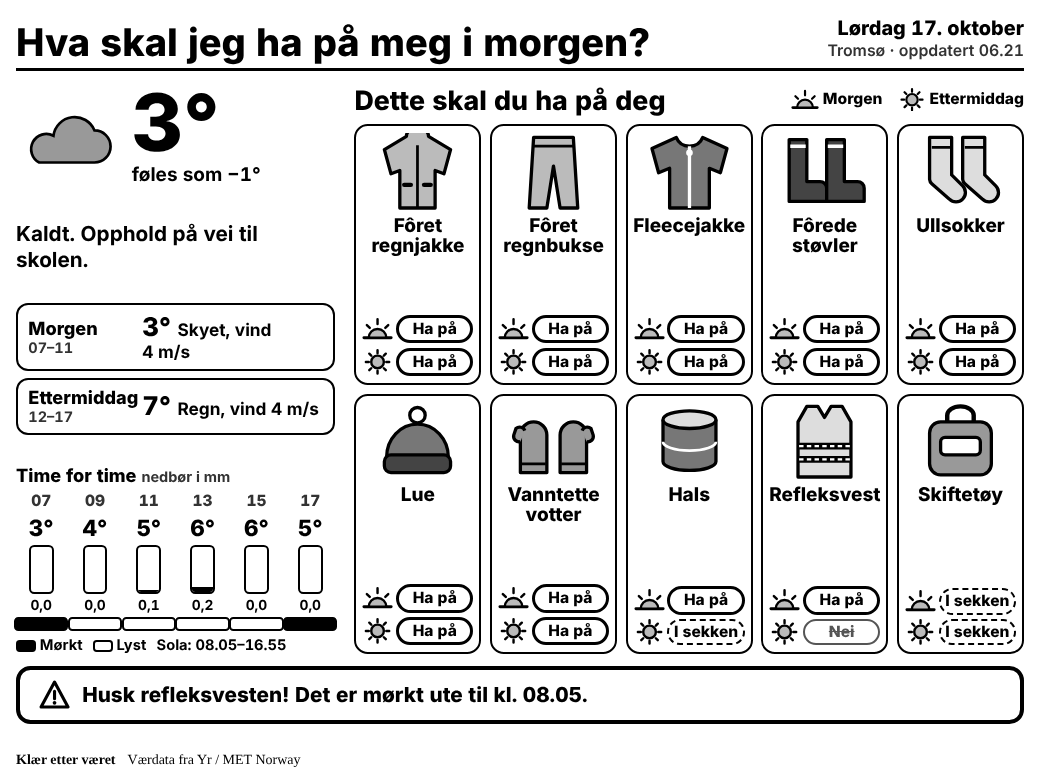
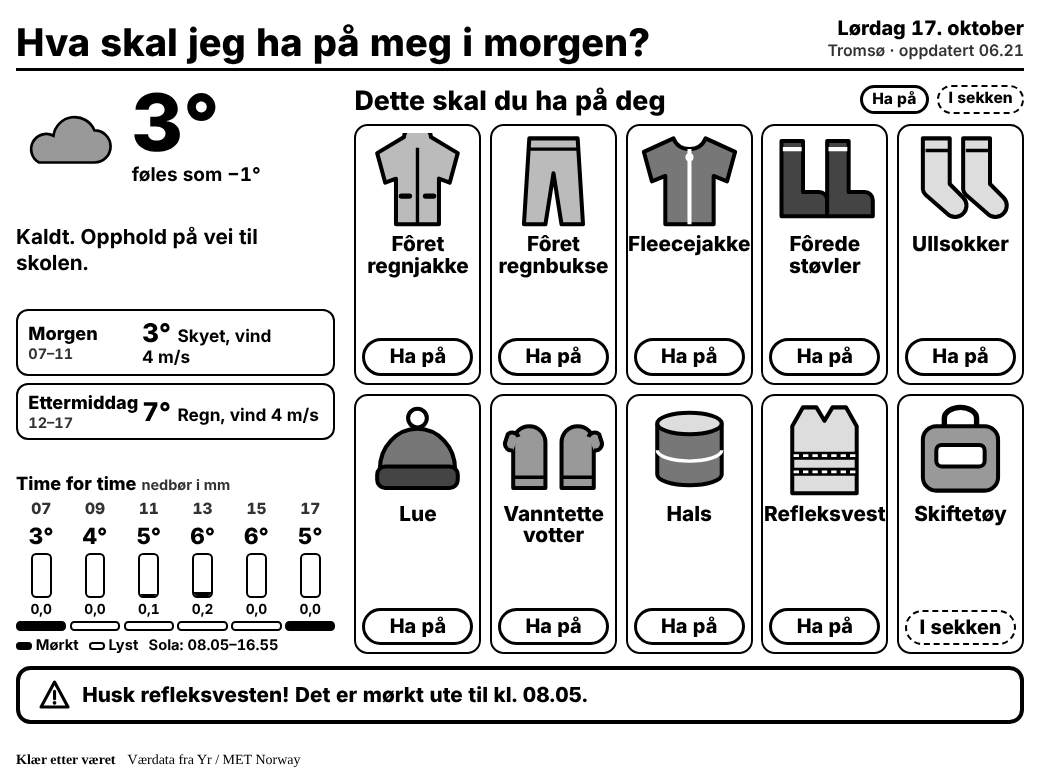
Show one label per garment instead of morning and afternoon rows
Kids get dressed once, so each card now says either "Ha på" (needed on
the way to school) or "I sekken" (only needed later, or optional).
Things to wear are listed first. The afternoon weather stays in the
left column.

Claude-Session: https://claude.ai/code/session_01MfSNdDLEZkeMd6mijxF2wM

diff --git a/src/transform.js b/src/transform.js
@@ -10,7 +10,7 @@ const PERIODS = {
 };
 const STRIP_HOURS = [7, 9, 11, 13, 15, 17];
 const SWITCH_TO_TOMORROW_AT = 17; // after this local hour, show tomorrow
-const STATUS_LABEL = { on: 'Ha på', bag: 'I sekken', no: 'Nei' };
+const STATUS_LABEL = { on: 'Ha på', bag: 'I sekken' };
 const MAX_ITEMS = 10;
 
 // ---------- input helpers ----------
@@ -235,6 +235,15 @@ function outfit(s) {
 const STRONGER = { no: 0, bag: 1, on: 2 };
 const stronger = (x, y) => (STRONGER[x] >= STRONGER[y] ? x : y);
 
+// One label per garment, because kids get dressed once, in the morning:
+// "Ha på" if it is needed on the way to school, "I sekken" if it is only
+// needed later in the day or is optional.
+function dayStatus(m, a) {
+  if (m === 'on') return 'on';
+  if (m === 'bag' || a !== 'no') return 'bag';
+  return 'no';
+}
+
 function mergeOutfits(morning, afternoon) {
   // Items sharing an icon are variants of one garment (e.g. boots). The warmest
   // variant needed in either period is shown, so a kid never sees two pairs of boots.
@@ -247,13 +256,16 @@ function mergeOutfits(morning, afternoon) {
     if (seen) { seen.m = stronger(seen.m, m); seen.a = stronger(seen.a, a); }
     else byIcon.set(icon, { key, name, icon, m, a });
   }
-  const items = [...byIcon.values()].map(it => ({ ...it, m_label: STATUS_LABEL[it.m], a_label: STATUS_LABEL[it.a] }));
+  const items = [...byIcon.values()]
+    .map(({ key, name, icon, m, a }) => {
+      const status = dayStatus(m, a);
+      return { key, name, icon, status, label: STATUS_LABEL[status] };
+    })
+    .filter(it => it.status !== 'no');
+  // Things to put on first, then things to pack; the sort is stable, so catalogue order holds within each group.
+  items.sort((x, y) => STRONGER[y.status] - STRONGER[x.status]);
   // Keep the most important ones if there are too many for the grid.
-  while (items.length > MAX_ITEMS) {
-    const idx = items.map((it, i) => [it, i]).reverse()
-      .find(([it]) => it.m !== 'on' && it.a !== 'on');
-    items.splice(idx ? idx[1] : items.length - 1, 1);
-  }
+  while (items.length > MAX_ITEMS) items.pop();
   return items;
 }
 

diff --git a/test/transform.test.js b/test/transform.test.js
@@ -24,6 +24,14 @@ test('after 17:00 the board shows tomorrow', () => {
   assert.equal(r.date, 'Lørdag 17. oktober');
 });
 
+test('each garment has one label: wear it now or pack it', () => {
+  const r = build(fixture, new Date('2026-10-16T04:30:00Z'));
+  for (const it of r.items) assert.ok(['on', 'bag'].includes(it.status));
+  const firstBag = r.items.findIndex(it => it.status === 'bag');
+  assert.ok(r.items.slice(firstBag).every(it => it.status === 'bag'), 'things to wear come first');
+  assert.equal(r.items.find(it => it.key === 'skiftetoy').label, 'I sekken');
+});
+
 test('one variant per garment, so never two kinds of mittens', () => {
   const r = build(fixture, new Date('2026-10-16T16:30:00Z'));
   const icons = r.items.map(i => i.icon);

diff --git a/README.md b/README.md
@@ -12,8 +12,8 @@ scales down to the original TRMNL and to mashup slots.
 - The weather on the way to school (07–11) and in the afternoon (12–17), with wind chill
   ("føles som").
 - Hour by hour temperature and precipitation, and whether it is dark or light outside.
-- An outfit grid where each garment says **Ha på** (wear it), **I sekken** (pack it) or
-  **Nei** (not needed), next to a sunrise for the morning and a high sun for the afternoon for the morning and the afternoon.
+- An outfit grid with one label per garment: **Ha på** (wear it on the way to school) or
+  **I sekken** (pack it, because it is only needed later in the day or is optional).
 - A reminder at the bottom, such as the reflector vest when it is dark on the way to school.
 
 After 17:00 the screen switches to tomorrow's plan.
